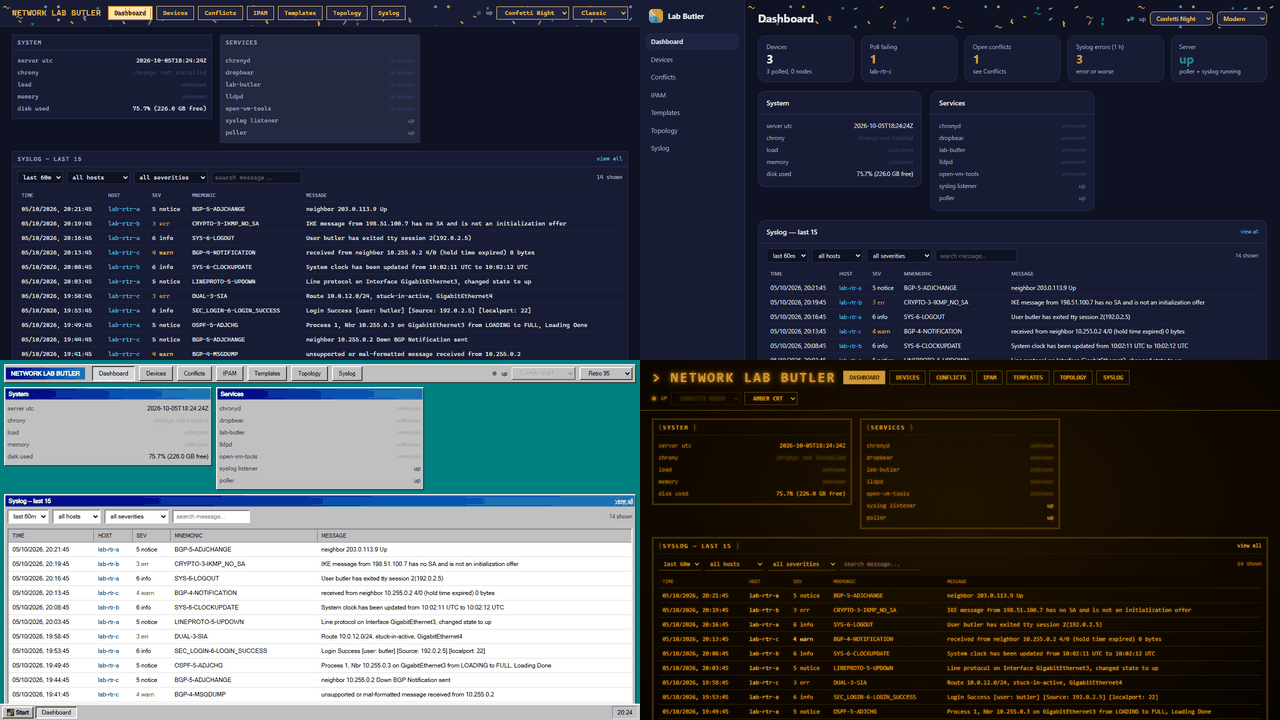
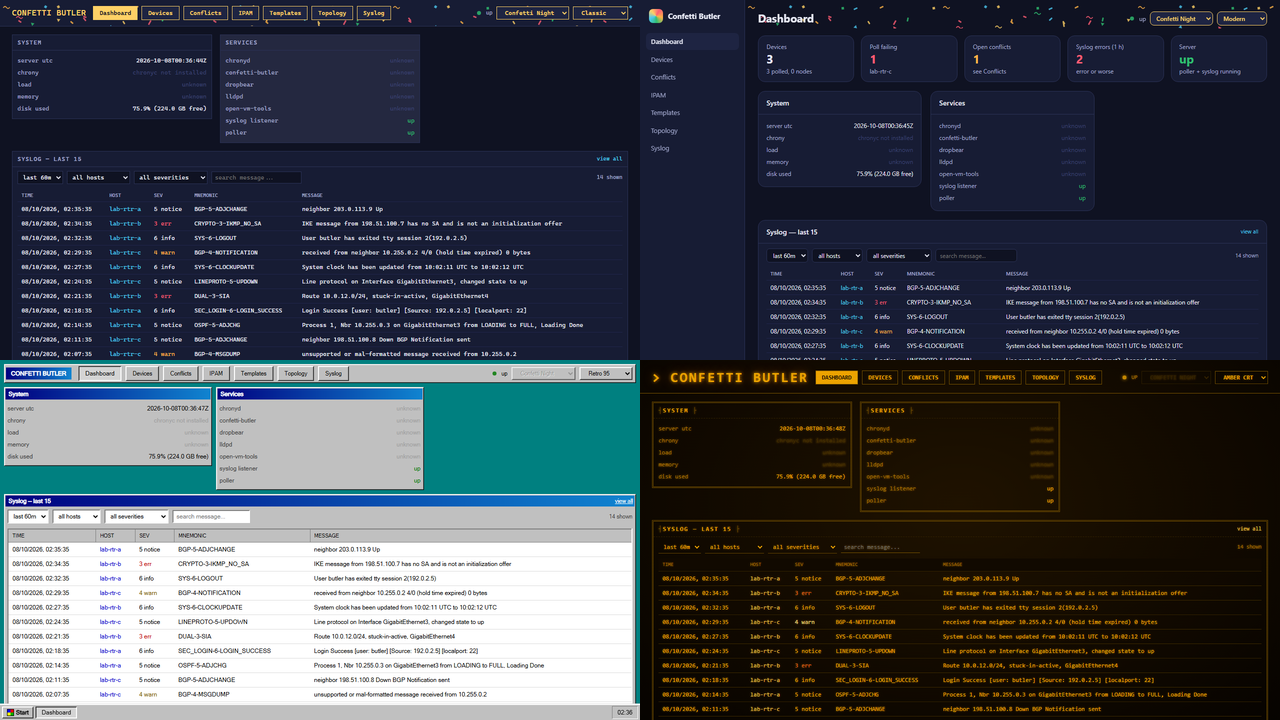
Add topology legend, README image scripts; regenerate README images
- topology.html: collapsible Legend panel (nodes and LLDP/BGP/OSPF line colours)
- scripts/seed_mock_lab.py + capture_readme.py: re-record docs/img/ from a mock lab
- regenerate themes.png, layouts.png and the demo GIF with the confetti-butler name
- HANDOFF.md: fix title and GitHub URL, record this session

diff --git a/butler/templates/topology.html b/butler/templates/topology.html
@@ -6,9 +6,17 @@
 <style>
 .filters { padding: 10px 24px; display: flex; gap: 8px; align-items: center; flex-wrap: wrap; background: var(--bg-card); border-bottom: 1px solid var(--border); flex: 0 0 auto; }
 button.active { border-color: var(--cyan); color: var(--cyan); }
-.legend { margin-left: auto; display: flex; gap: 14px; font-size: 11px; color: var(--text-dim); align-items: center; flex-wrap: wrap; }
-.legend .dot { display: inline-block; width: 9px; height: 9px; border-radius: 50%; margin-right: 4px; vertical-align: middle; }
-#net { flex: 1 1 auto; min-height: 0; background: var(--bg); }
+.net-wrap { position: relative; flex: 1 1 auto; min-height: 0; }
+#net { position: absolute; inset: 0; background: var(--bg); }
+.legend-box { position: absolute; left: 12px; bottom: 12px; z-index: 5; max-width: 270px; font-size: 11px; color: var(--text-dim);
+    background: var(--bg-card); border: 1px solid var(--border); border-radius: 4px; padding: 6px 10px; }
+.legend-box summary { cursor: pointer; color: var(--text); font-weight: bold; }
+.legend-box h4 { margin: 8px 0 3px; font-size: 10px; text-transform: uppercase; letter-spacing: 1px; }
+.legend-box .row { display: flex; align-items: center; gap: 8px; margin: 3px 0; }
+.legend-box .sw { flex: 0 0 22px; height: 12px; border-radius: 2px; }
+.legend-box .sw.ghost { border-radius: 50%; width: 12px; flex-basis: 12px; margin: 0 5px; background: var(--bg-card); border: 1px dashed var(--text-dim); }
+.legend-box .ln { flex: 0 0 22px; height: 0; border-top: 3px solid; }
+.legend-box .hint { margin-top: 8px; border-top: 1px solid var(--border); padding-top: 5px; }
 #net .empty { padding: 24px; }
 </style>
 {% endblock %}
@@ -18,13 +26,23 @@ button.active { border-color: var(--cyan); color: var(--cyan); }
     <button data-layer="lldp" onclick="setLayer('lldp', this)">LLDP</button>
     <button data-layer="bgp" onclick="setLayer('bgp', this)">BGP</button>
     <button data-layer="ospf" onclick="setLayer('ospf', this)">OSPF</button>
-    <span class="legend">
-        <span><span class="dot" style="background:var(--blue)"></span>router</span>
-        <span><span class="dot" style="background:var(--text-dim)"></span>node (Confetti Traffic)</span>
-        <span><span class="dot" style="background:var(--gray);border:1px dashed var(--text-dim)"></span>unresolved neighbor</span>
-    </span>
 </div>
-<div id="net"></div>
+<div class="net-wrap">
+    <div id="net"></div>
+    <details class="legend-box" open>
+        <summary>Legend</summary>
+        <h4>Devices</h4>
+        <div class="row"><span class="sw" style="background:var(--blue)"></span>router (polled over SSH)</div>
+        <div class="row"><span class="sw" style="background:var(--text-dim)"></span>Confetti Traffic node (never polled)</div>
+        <div class="row"><span class="sw" style="background:var(--green)"></span>other device role</div>
+        <div class="row"><span class="sw ghost"></span>unresolved neighbor or peer: seen, but not matched to a known device</div>
+        <h4>Links</h4>
+        <div class="row"><span class="ln" style="border-color:var(--cyan)"></span>LLDP cable: local port - remote port</div>
+        <div class="row"><span class="ln" style="border-color:var(--yellow)"></span>BGP session and its state</div>
+        <div class="row"><span class="ln" style="border-color:var(--blue)"></span>OSPF adjacency and its state</div>
+        <div class="hint">Double-click a router to open its page. Drag to move, scroll to zoom.</div>
+    </details>
+</div>
 {% endblock %}
 {% block scripts %}
 <script src="/static/vendor/vis-network/vis-network.min.js"></script>

diff --git a/butler/scripts/seed_mock_lab.py b/butler/scripts/seed_mock_lab.py
@@ -1,0 +1,175 @@
+"""Fill a NEW scratch database with a fake lab, for README screenshots and demos.
+
+Three routers (documentation-range IPs, fake serials 9SIMLAB000x), their
+interfaces, LLDP/OSPF/BGP neighbours, one identity conflict, one IPAM overlap,
+one duplicate IP, a base template and 14 recent syslog lines. No real lab data.
+
+    python scripts/seed_mock_lab.py mock-lab.db
+
+Refuses to touch a file that already exists. Devices are marked "polled just
+now" and next_poll_at is far in the future, so a server started on this file
+never dials the fake addresses. Used by capture_readme.py.
+"""
+
+import os
+import sys
+from datetime import datetime, timedelta, timezone
+
+sys.path.insert(0, os.path.join(os.path.dirname(os.path.abspath(__file__)), ".."))
+
+if len(sys.argv) != 2:
+    sys.exit("usage: seed_mock_lab.py <new-db-path>")
+if os.path.exists(sys.argv[1]):
+    sys.exit("{} already exists - pick a new path".format(sys.argv[1]))
+os.environ["BUTLER_DB_PATH"] = sys.argv[1]
+
+from app import db, identity, ipam  # noqa: E402  (env var must be set first)
+from app.parsers import ios  # noqa: E402
+
+ROUTERS = [
+    # hostname, mgmt_ip, serial, os_version
+    ("lab-rtr-a", "192.0.2.10", "9SIMLAB0001", "17.3.8a"),
+    ("lab-rtr-b", "192.0.2.171", "9SIMLAB0002", "17.3.2"),
+    ("lab-rtr-c", "192.0.2.167", "9SIMLAB0003", "3.11.4S"),
+]
+
+# device index -> (name, description, ip, prefix_len)
+INTERFACES = {
+    0: [("GigabitEthernet1", "mgmt", "192.0.2.10", 24),
+        ("GigabitEthernet2", "to lab-rtr-b", "10.0.12.1", 24),
+        ("GigabitEthernet3", "to lab-rtr-c", "10.0.13.1", 30),
+        ("Loopback0", "router id", "10.255.0.1", 32)],
+    1: [("GigabitEthernet1", "mgmt", "192.0.2.171", 24),
+        ("GigabitEthernet2", "to lab-rtr-a", "10.0.12.2", 24),
+        ("GigabitEthernet3", "to lab-rtr-c", "10.0.23.1", 24),
+        ("Loopback0", "router id", "10.255.0.2", 32)],
+    2: [("GigabitEthernet1", "mgmt", "192.0.2.167", 24),
+        ("GigabitEthernet2", "to lab-rtr-b", "10.0.23.2", 24),
+        ("GigabitEthernet3", "to lab-rtr-a", "10.0.13.2", 30),
+        ("GigabitEthernet4", "lab segment", "10.0.13.254", 24),   # swallows the /30 above: overlap
+        ("Loopback0", "router id", "10.255.0.3", 32),
+        ("Loopback1", "test", "10.255.0.1", 32)],                  # same IP as lab-rtr-a Lo0: duplicate
+}
+
+# device index, local_if, remote sysname, remote port, remote device index (None = ghost), remote mgmt ip
+LLDP = [
+    (0, "GigabitEthernet2", "lab-rtr-b", "GigabitEthernet2", 1, "192.0.2.171"),
+    (1, "GigabitEthernet2", "lab-rtr-a", "GigabitEthernet2", 0, "192.0.2.10"),
+    (1, "GigabitEthernet3", "lab-rtr-c", "GigabitEthernet2", 2, "192.0.2.167"),
+    (2, "GigabitEthernet2", "lab-rtr-b", "GigabitEthernet3", 1, "192.0.2.171"),
+    (2, "GigabitEthernet4", "sw-access-1", "Fa0/24", None, None),
+]
+
+# device index, proto, peer_ip, remote_as, area, state, uptime, prefixes, local_if
+ADJACENCIES = [
+    (0, "ospf", "10.255.0.2", None, "0", "FULL", "2d03h", None, "GigabitEthernet2"),
+    (1, "ospf", "10.255.0.1", None, "0", "FULL", "2d03h", None, "GigabitEthernet2"),
+    (0, "bgp", "203.0.113.9", 64500, None, "Established", "1d02h", 14, None),
+    (1, "bgp", "198.51.100.7", 64501, None, "Established", "05:12:44", 6, None),
+    (2, "bgp", "198.51.100.8", 64501, None, "Active", "never", None, None),
+]
+
+# minutes ago, router index, severity, mnemonic, message
+SYSLOG = [
+    (1, 0, 5, "BGP-5-ADJCHANGE", "neighbor 203.0.113.9 Up"),
+    (2, 1, 3, "CRYPTO-3-IKMP_NO_SA", "IKE message from 198.51.100.7 has no SA and is not an initialization offer"),
+    (4, 0, 6, "SYS-6-LOGOUT", "User butler has exited tty session 2(192.0.2.5)"),
+    (7, 2, 4, "BGP-4-NOTIFICATION", "received from neighbor 10.255.0.2 4/0 (hold time expired) 0 bytes"),
+    (9, 1, 6, "SYS-6-CLOCKUPDATE", "System clock has been updated from 10:02:11 UTC to 10:02:12 UTC"),
+    (12, 2, 5, "LINEPROTO-5-UPDOWN", "Line protocol on Interface GigabitEthernet3, changed state to up"),
+    (15, 1, 3, "DUAL-3-SIA", "Route 10.0.12.0/24, stuck-in-active, GigabitEthernet4"),
+    (18, 0, 6, "SEC_LOGIN-6-LOGIN_SUCCESS", "Login Success [user: butler] [Source: 192.0.2.5] [localport: 22]"),
+    (22, 0, 5, "OSPF-5-ADJCHG", "Process 1, Nbr 10.255.0.3 on GigabitEthernet3 from LOADING to FULL, Loading Done"),
+    (25, 2, 5, "BGP-5-ADJCHANGE", "neighbor 198.51.100.8 Down BGP Notification sent"),
+    (29, 2, 4, "BGP-4-MSGDUMP", "unsupported or mal-formatted message received from 10.255.0.2"),
+    (33, 1, 6, "SYS-6-LOGOUT", "User butler has exited tty session 3(192.0.2.5)"),
+    (41, 0, 5, "LINK-5-CHANGED", "Interface GigabitEthernet4, changed state to administratively down"),
+    (50, 2, 6, "SYS-6-CLOCKUPDATE", "System clock has been updated from 09:30:00 UTC to 09:30:01 UTC"),
+]
+
+TEMPLATE = """hostname {{ device.hostname }}
+!
+{% for i in interfaces if i.ip %}interface {{ i.name }}
+ description {{ i.description }}
+ ip address {{ i.ip }}/{{ i.prefix_len }}
+ no shutdown
+!
+{% endfor %}enable secret {{ vars.enable_secret }}
+"""
+
+
+def ts(minutes_ago=0):
+    t = datetime.now(timezone.utc) - timedelta(minutes=minutes_ago)
+    return t.strftime("%Y-%m-%d %H:%M:%S")
+
+
+def main():
+    db.init_db()
+    conn = db.connect()
+    now = ts()
+    ids = []
+    for host, ip, serial, ver in ROUTERS:
+        fields = {"hostname": host, "mgmt_ip": ip, "serial": serial, "os_version": ver,
+                  "model": "CSR1000V", "site": "lab"}
+        ids.append(identity.ingest(
+            conn, [("serial", serial), ("mgmt_ip", ip), ("hostname", host)], fields, "manual"))
+
+    for idx, dev_id in enumerate(ids):
+        failing = idx == 2
+        conn.execute(
+            "UPDATE devices SET poll_state='idle', next_poll_at='2099-01-01 00:00:00', "
+            "fail_count=?, last_poll_ok=? WHERE id=?",
+            (3 if failing else 0, ts(180) if failing else now, dev_id))
+        for name, desc, ip, plen in INTERFACES[idx]:
+            conn.execute(
+                "INSERT INTO interfaces (device_id, name, description, ip, prefix_len, network, "
+                "admin_status, oper_status, speed, duplex, input_errors, crc_errors, mtu, last_seen) "
+                "VALUES (?,?,?,?,?,?,?,?,?,?,0,0,1500,?)",
+                (dev_id, name, desc, ip, plen, ios._network(ip, plen),
+                 "up", "up", "1000", "full", now))
+
+    for idx, local_if, sysname, port, remote_idx, rip in LLDP:
+        conn.execute(
+            "INSERT INTO lldp_neighbors (device_id, local_if, remote_sysname, remote_port, "
+            "remote_mgmt_ip, remote_device_id, last_seen) VALUES (?,?,?,?,?,?,?)",
+            (ids[idx], local_if, sysname, port, rip,
+             ids[remote_idx] if remote_idx is not None else None, now))
+    for idx, proto, peer, asn, area, state, up, pfx, lif in ADJACENCIES:
+        conn.execute(
+            "INSERT INTO adjacencies (device_id, proto, peer_ip, remote_as, area, state, uptime, "
+            "prefixes, local_if, last_seen) VALUES (?,?,?,?,?,?,?,?,?,?)",
+            (ids[idx], proto, peer, asn, area, state, up, pfx, lif, now))
+
+    for ago, idx, sev, mnem, msg in SYSLOG:
+        host, ip = ROUTERS[idx][0], ROUTERS[idx][1]
+        conn.execute(
+            "INSERT INTO syslog (received_at, source_ip, host, facility, severity, mnemonic, "
+            "device_time, message, raw) VALUES (?,?,?,23,?,?,?,?,?)",
+            (ts(ago), ip, host, sev, mnem, ts(ago), msg, "%{}: {}".format(mnem, msg)))
+
+    body = TEMPLATE
+    conn.execute(
+        "INSERT INTO templates (name, body, note, updated_at, version) VALUES (?,?,?,?,1)",
+        ("base-router", body, "Mock lab template", now))
+    conn.execute(
+        "INSERT INTO template_versions (name, version, body, saved_at) VALUES (?,1,?,?)",
+        ("base-router", body, now))
+    conn.execute("UPDATE devices SET template_name='base-router'")
+    for dev_id in ids:
+        conn.execute("INSERT INTO template_vars (device_id, key, value) VALUES (?,?,?)",
+                     (dev_id, "enable_secret", "CHANGE-ME"))
+
+    # An identity conflict: lab-rtr-b's IP now reports a different serial.
+    try:
+        identity.ingest(conn, [("serial", "9SIMLAB0099"), ("mgmt_ip", "192.0.2.171")],
+                        {"serial": "9SIMLAB0099", "mgmt_ip": "192.0.2.171"}, "sweep", "192.0.2.0/24")
+    except identity.Conflict:
+        pass
+
+    ipam.analyze(conn)
+    conn.commit()
+    conn.close()
+    print("seeded {} with {} devices".format(sys.argv[1], len(ids)))
+
+
+main()

diff --git a/butler/scripts/capture_readme.py b/butler/scripts/capture_readme.py
@@ -1,0 +1,102 @@
+"""Re-record the README images in docs/img/ from a mock lab.
+
+    pip install playwright pillow && playwright install chromium
+    python scripts/capture_readme.py [output-dir]     (default: docs/img)
+
+Seeds a throwaway database with seed_mock_lab.py, starts a server on it (port
+8099, syslog on 5598), drives Chromium, then stops the server and deletes the
+database. Writes themes.png, layouts.png and confetti-butler-demo.gif. Run it
+after any UI change or rename so the README never shows an old look.
+"""
+
+import io
+import os
+import subprocess
+import sys
+import tempfile
+import time
+import urllib.request
+
+from PIL import Image
+from playwright.sync_api import sync_playwright
+
+HERE = os.path.dirname(os.path.abspath(__file__))
+BUTLER = os.path.dirname(HERE)
+OUT = sys.argv[1] if len(sys.argv) > 1 else os.path.join(BUTLER, "..", "docs", "img")
+PORT = 8099
+BASE = "http://127.0.0.1:{}".format(PORT)
+SIZE = {"width": 1280, "height": 720}
+
+THEMES = ["light", "terminal", "confetti-night", "neon"]      # themes.png, in order
+LAYOUTS = ["classic", "modern", "retro95", "amber"]           # layouts.png, in order
+TOUR = ["/", "/devices", "/devices/1", "/topology", "/ipam", "/templates", "/syslog", "/conflicts"]
+
+
+def wait_for_server():
+    for _ in range(50):
+        try:
+            urllib.request.urlopen(BASE + "/api/health", timeout=1)
+            return
+        except OSError:
+            time.sleep(0.2)
+    sys.exit("server did not start")
+
+
+def shot(browser, path, theme="confetti-night", layout="classic", wait_ms=900):
+    """One screenshot as a PIL image, in a fresh browser context that is closed again
+    (open contexts keep polling /api/health and starve the server). Saved theme and
+    layout are set in localStorage first."""
+    context = browser.new_context(viewport=SIZE)
+    page = context.new_page()
+    page.add_init_script(
+        "try{localStorage.setItem('confetti-butler-theme','%s');"
+        "localStorage.setItem('confetti-butler-layout','%s');}catch(e){}" % (theme, layout))
+    page.goto(BASE + path)
+    page.wait_for_load_state("networkidle")
+    page.wait_for_timeout(wait_ms + (1500 if path == "/topology" else 0))
+    img = Image.open(io.BytesIO(page.screenshot())).convert("RGB")
+    context.close()
+    return img
+
+
+def collage(images, out_path):
+    w, h = SIZE["width"] // 2, SIZE["height"] // 2
+    sheet = Image.new("RGB", (SIZE["width"], SIZE["height"]))
+    for i, img in enumerate(images):
+        sheet.paste(img.resize((w, h), Image.LANCZOS), ((i % 2) * w, (i // 2) * h))
+    sheet.save(out_path, optimize=True)
+
+
+def main():
+    os.makedirs(OUT, exist_ok=True)
+    tmp = tempfile.mkdtemp(prefix="butler-capture-")
+    db_path = os.path.join(tmp, "mock-lab.db")
+    subprocess.run([sys.executable, os.path.join(HERE, "seed_mock_lab.py"), db_path], check=True)
+
+    env = dict(os.environ, BUTLER_DB_PATH=db_path, BUTLER_PORT=str(PORT), BUTLER_SYSLOG_PORT="5598")
+    server = subprocess.Popen([sys.executable, os.path.join(BUTLER, "serve.py")], cwd=BUTLER, env=env)
+    try:
+        wait_for_server()
+        with sync_playwright() as p:
+            browser = p.chromium.launch()
+            collage([shot(browser, "/", theme=t) for t in THEMES], os.path.join(OUT, "themes.png"))
+            collage([shot(browser, "/", layout=l) for l in LAYOUTS], os.path.join(OUT, "layouts.png"))
+
+            frames = [shot(browser, path) for path in TOUR]
+            frames += [shot(browser, "/", theme=t) for t in THEMES]
+            frames += [shot(browser, "/", layout=l) for l in LAYOUTS[1:]]
+            browser.close()
+
+        small = [f.resize((960, 540), Image.LANCZOS).quantize(colors=128) for f in frames]
+        small[0].save(os.path.join(OUT, "confetti-butler-demo.gif"), save_all=True,
+                      append_images=small[1:], duration=1800, loop=0, optimize=True)
+        print("wrote themes.png, layouts.png, confetti-butler-demo.gif to", os.path.normpath(OUT))
+    finally:
+        server.terminate()
+        server.wait(timeout=10)
+        for name in os.listdir(tmp):
+            os.remove(os.path.join(tmp, name))
+        os.rmdir(tmp)
+
+
+main()

diff --git a/docs/HANDOFF.md b/docs/HANDOFF.md
@@ -1,4 +1,4 @@
-# lab-butler — Build Handoff
+# confetti-butler — Build Handoff
 
 Point-in-time record of the initial build, 2026-09-14/15, plus follow-up sessions on 2026-09-27
 and 2026-09-28 (see the "Follow-up session" sections below). Read `CLAUDE.md` at the repo root first —
@@ -94,7 +94,7 @@ whole history and are kept outside the repo. Main changes, all verified live unl
   survives a page change, no JS errors.
 - **README:** new, with a demo GIF (`docs/img/lab-butler-demo.gif`) recorded against a **mock lab**
   (documentation-range IPs, fake serials) on a scratch database — not real lab data. The seed
-  script for that mock lab is not in the repo.
+  script for that mock lab is now in the repo (see 2026-10-08).
 - **Other:** device delete cleans up `poll_history` and neighbor references; PUT records new
   identifiers as aliases; credential saves are partial.
 - **Renamed:** sibling project lab-tester → mesh-flux (route `/api/discover/meshflux`, module
@@ -138,7 +138,7 @@ whole history and are kept outside the repo. Main changes, all verified live unl
   the Confetti button) plus `themes.png` and `layouts.png` (2×2 collages of the dashboard). Recorded
   with Playwright against a **mock lab** on a scratch database (3 routers, `192.0.2.0/24` and
   `10.0.x.x` addresses, fake serials `9SIMLAB000x`, one identity conflict, an overlap and a duplicate
-  IP in IPAM) — no real lab data. The seed and capture scripts are not in the repo.
+  IP in IPAM) — no real lab data. The seed and capture scripts are now in the repo (see 2026-10-08).
 - The header status reads `up` (not `up since unknown`) when the server reports no uptime, as on Windows.
 - Old saved `catppuccin` / `gruvbox` choices fall back to Dark (unknown names are ignored).
 - Flask caches templates outside debug mode, so restart the server after editing a template.
@@ -171,11 +171,23 @@ whole history and are kept outside the repo. Main changes, all verified live unl
   or move the paths and services by hand and update that line in `butler.env`.
 - Earlier entries above still say lab-butler; that was the name then.
 - **Not tested:** `build-template.sh` and the OpenRC scripts were only syntax-checked, not run on Alpine.
+- **README image scripts are now permanent:** `butler/scripts/seed_mock_lab.py` fills a new scratch DB with the
+  mock lab; `butler/scripts/capture_readme.py` seeds one, starts a server on port 8099, drives Chromium
+  (Playwright + Pillow) and rewrites `docs/img/` (`themes.png`, `layouts.png`, the GIF). Run it after any UI
+  change. Tested with output sent to a scratch folder: both PNGs show the new CONFETTI BUTLER branding.
+  `docs/img/` was regenerated with it the same day: all three images show the new branding
+  (checked: `layouts.png`, `themes.png` and the topology frame of the GIF; other GIF frames not looked at).
+- **Topology legend:** `templates/topology.html` has a collapsible Legend panel (bottom-left of the map)
+  explaining router / Confetti Traffic node / other-role / unresolved-neighbor nodes and the LLDP (cyan),
+  BGP (yellow) and OSPF (blue) line colours. It uses theme colours, so it follows the pickers. Replaces the
+  old one-line legend in the filter bar. Checked in Chrome in Classic and Retro 95 on the mock lab, no JS
+  errors; other theme and layout pairs not checked. The mock-lab seed now uses full interface names on both
+  ends of an LLDP link so each cable is drawn once.
 
 ## Housekeeping
 
 - **Git:** repository initialised 2026-09-27 on `main`, public at
-  https://github.com/orneh24/lab-butler. The unpushed history was rewritten before the first push to
+  https://github.com/orneh24/confetti-butler. The unpushed history was rewritten before the first push to
   replace real lab IPs, hostnames and a serial with placeholders — don't commit real lab details.
   `butler.db*` and `butler.env` are gitignored (plaintext credentials). `.gitattributes` pins `.sh`, `.initd`, `.py` and
   `requirements.txt` to LF — the machine's system-wide `core.autocrlf=true` would otherwise check

diff --git a/CLAUDE.md b/CLAUDE.md
@@ -205,7 +205,8 @@ butler/
   static/vendor/         — codemirror/, vis-network/ (vendored pinned versions, no CDN)
   seed/devices.yaml.sample
   services/ — firstboot.initd, login-setup.sh
-  scripts/ — butler-setup.sh
+  scripts/ — butler-setup.sh, seed_mock_lab.py (fake lab in a new scratch DB),
+           capture_readme.py (re-records docs/img/ from that mock lab; run after any UI change)
 .claude/skills/  — 6 vendor/protocol reference skills (this app's domain knowledge) +
            confetti-butler-hub-api (this app's own HTTP contract, mirroring confetti-hub-api) +
            confetti-butler-dev-run (running it locally on Windows)
